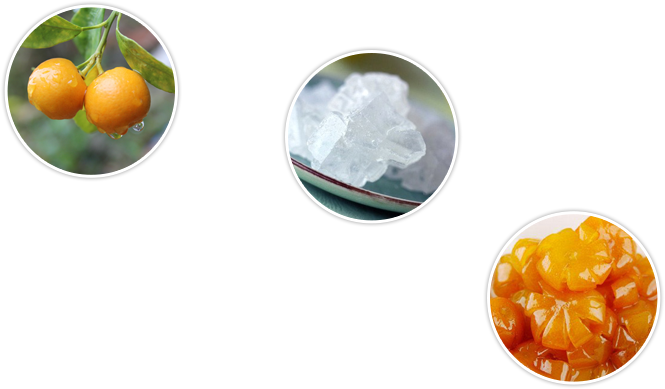
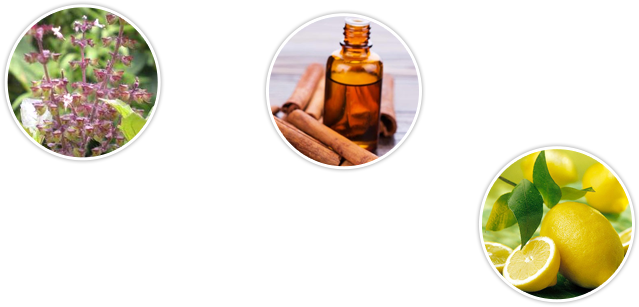
15-03-2016

diff --git a/3-source/bezut_Source/assets/styles/StyleSheet.css b/3-source/bezut_Source/assets/styles/StyleSheet.css
@@ -106,7 +106,7 @@ p {
     top: -25px;
     left: 0;
     position: relative;
-    width: 940px;
+    width: 1100px;
 }
 .group-node {
     padding-top: 10px;
@@ -114,7 +114,10 @@ p {
 }
 .group-node .group-text {
     float: left;
-    width: 270px;
+    position: relative;
+    left: 0;
+    top: 0;
+    width: 250px;
 }
 .group-node .group-text .description {
     text-align: center;
@@ -125,11 +128,17 @@ p {
     text-align: center;
     }
 #boxgroup-2 .groupa-1 {
-    margin-right: 55px;
+    margin-right: 45px;
+}
+#boxgroup-2 .groupa-2 {
+    margin-right: 40px;
 }
 #boxgroup-2 .groupa-3 {
+    margin-top: -15px;
+}
+#boxgroup-2 .groupa-4 {
     float: right;
-    margin-top: -35px;
+    margin-top: -65px;
 }
 .mp15 {
     margin-bottom: 15px;

diff --git a/3-source/bezut_Source/assets/styles/site.css b/3-source/bezut_Source/assets/styles/site.css
@@ -424,7 +424,7 @@ hr
     background-color: #fff;
     /*min-height: 335px;
     min-width: 1170px;*/
-    padding-left: 22%;
+    padding-left: 30%;
     position: relative;
 }
 #banner .doctor, .doc-bg
@@ -437,7 +437,7 @@ hr
 }
 #banner .doctor
 {
-    width: 22%;
+    width: 30%;
 }
 #banner .doctor a
 {
